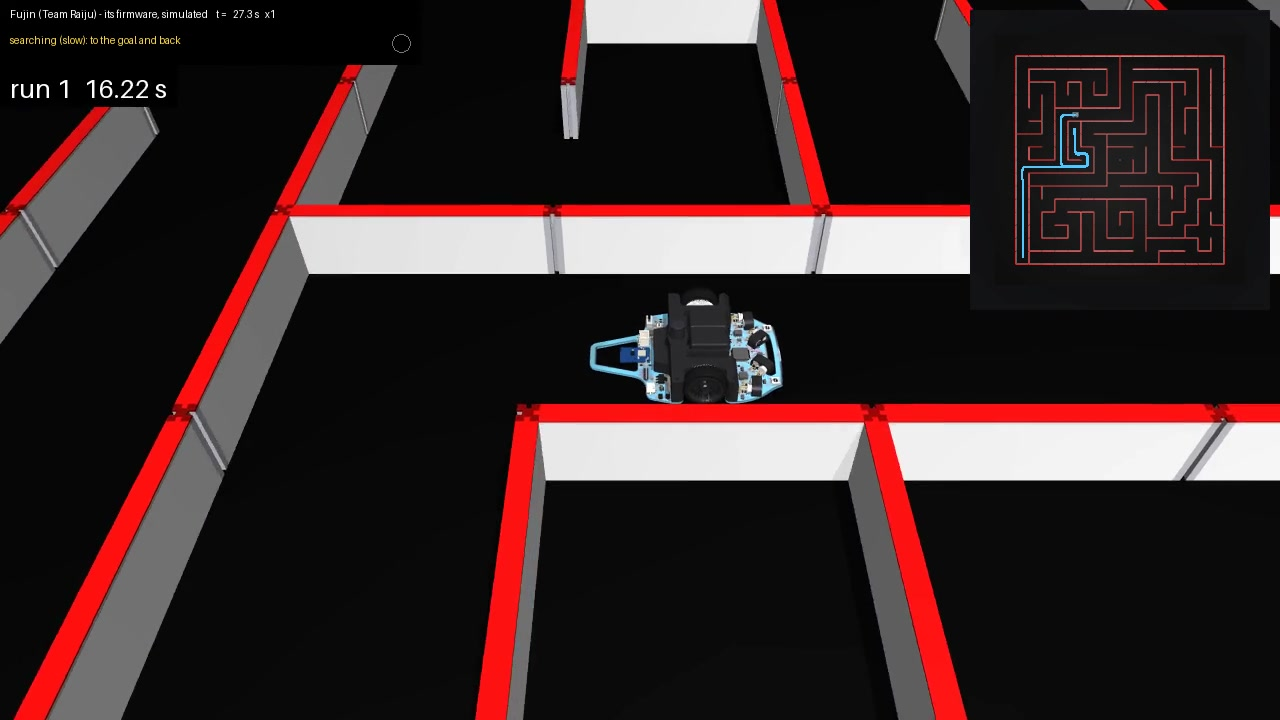
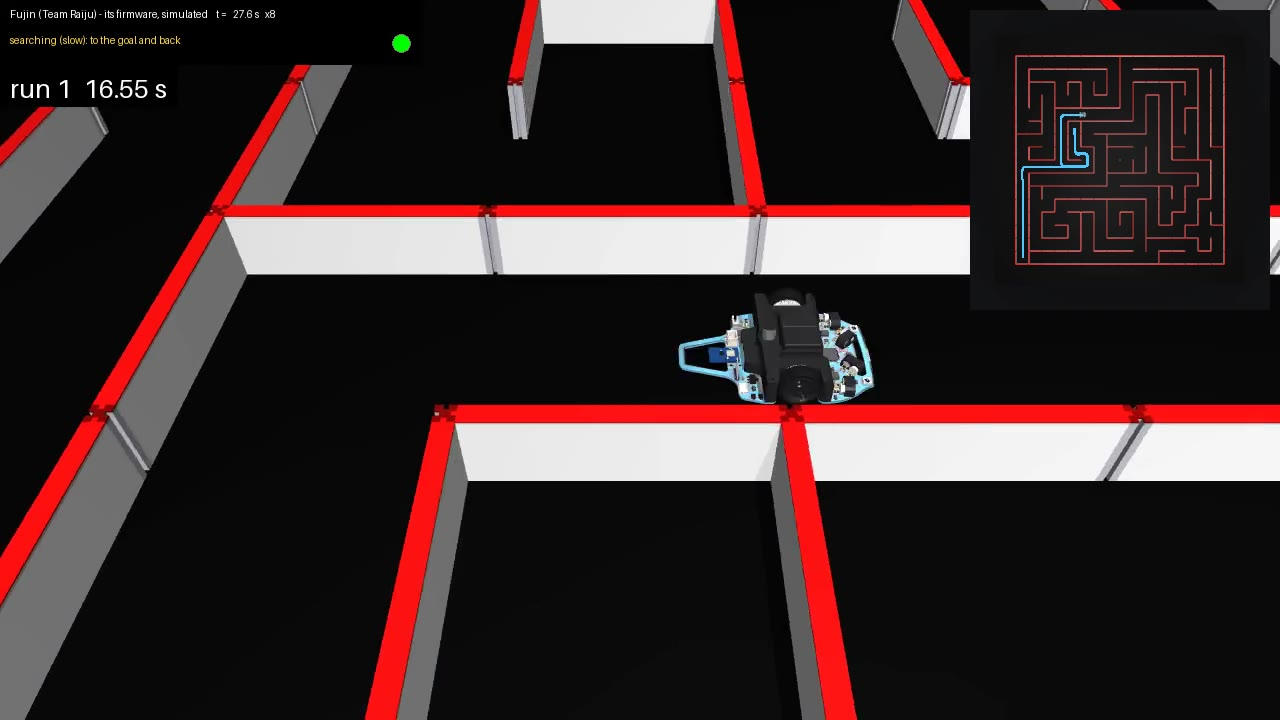
Fujin's fan motor silver, as a drone's coreless motor: its can polished aluminium, its shaft steel, its rear cap black plastic (split from the STEP's one body at the can's vertex rings, so with clean edges), the wheels' motors unchanged; its portrait and its picture in the maze regenerated

diff --git a/ratasim/fujin/cad.py b/ratasim/fujin/cad.py
@@ -32,6 +32,13 @@ BOARD_RGB = (105, 178, 212)         # its board, printed sky blue (its art left 
                                     # which the studio's lights wash out)
 PRINTED_RGB = (34, 34, 36)          # its frame, wheels, encoders' hubs and fan: black PLA
 TYRE_RGB = (22, 22, 22)
+# Its fan's coreless motor (the 8523 standing on the board, 26.5 mm tall; the wheels' are lying), as a drone's: a polished
+# aluminium can, a steel shaft out of its bottom, a black plastic rear cap.
+FAN_MOTOR_RGB = (118, 121, 128)       # polished aluminium (lighter ones wash out to white under the studio's lights)
+FAN_SHAFT_RGB = (85, 87, 93)
+FAN_CAP_RGB = (30, 30, 33)
+FAN_SHAFT_MM = 3.0                  # up to here (from the STEP's floor) the shaft; the can over it
+FAN_CAP_MM = 25.38                  # from here the cap (both on rings of the STEP's vertices, so a clean edge)
 METAL_RGB = (190, 192, 198)
 PART_RGB = (                        # name contains: colour
     (('MM_frame', 'MM_wheel', 'MM_Encoder_hub', 'MM_fan'), PRINTED_RGB),
@@ -173,6 +180,12 @@ def build(step=F.CAD_STEP, out=F.CAD_MESHES):
     groups = {}
     for name, rgb, t in parts:
         t = t - axle
+        if '8523_motor' in name and np.ptp(t[..., 2]) > 20:
+            z = t[..., 2] + axle[2]
+            shaft, cap = z.max(1) <= FAN_SHAFT_MM + 0.01, z.min(1) >= FAN_CAP_MM
+            for sel, c in ((shaft, FAN_SHAFT_RGB), (~shaft & ~cap, FAN_MOTOR_RGB), (cap, FAN_CAP_RGB)):
+                groups.setdefault((body(name, t[sel]), c), []).append((name, t[sel]))
+            continue
         rgb = colour(name, rgb, t)
         if rgb == BOARD_RGB:
             t = board_faces(t, out)
